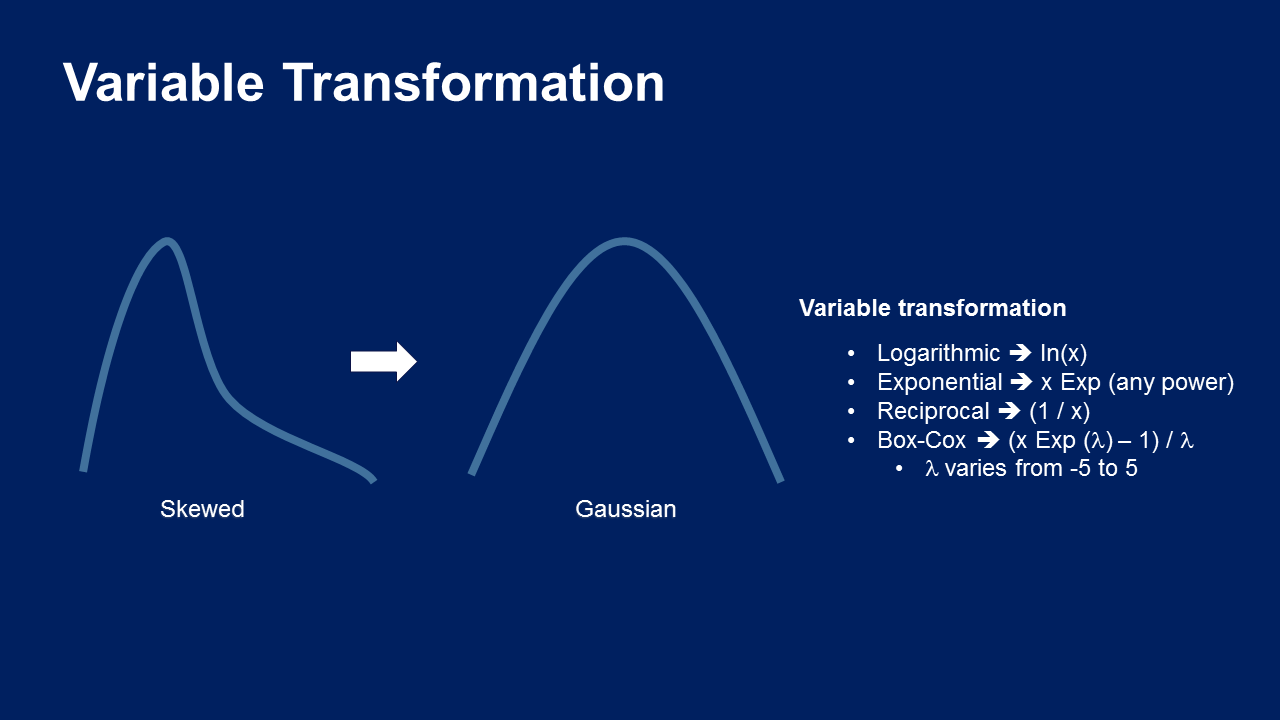
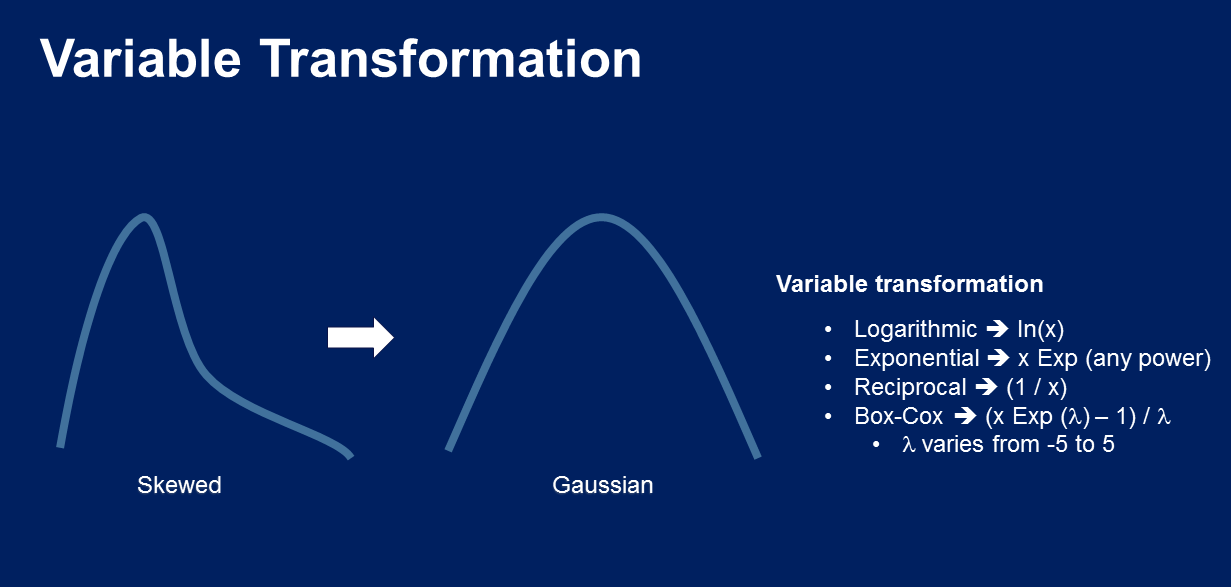
update index

diff --git a/docs/user_guide/transformation/index.rst b/docs/user_guide/transformation/index.rst
@@ -3,28 +3,47 @@
 Variance Stabilising Transformations
 ====================================
 
-Feature-engine's variable transformers transform numerical variables with various
-mathematical transformations.
+Feature-engine's variance stabilising transformers transform numerical variables with various
+mathematical operations, like logarithm, power, reciprocal, and so on.
 
 Variable transformations are commonly used to spread the values of the original variables
-over a wider value range. See the following illustration:
+over a wider value range and help meet the assumptions of several statistical models.
+See the following illustration:
 
 .. figure::  ../../images/Variable_Transformation.png
    :align:   center
 
 
-Article
--------
+.. tip::
 
-We added a lot of information about **variance stabilising transformations** in this
-`article <https://www.blog.trainindata.com/variance-stabilizing-transformations-in-machine-learning/>`_.
+    To learn more about `**variance stabilising transformations** <https://www.blog.trainindata.com/variance-stabilizing-transformations-in-machine-learning/>`_
+    and their role in statistics and  machine learning, check out our very detailed
+    `article <https://www.blog.trainindata.com/variance-stabilizing-transformations-in-machine-learning/>`_ in our
+    Train in Data Blog.
 
-**Note**
+Supported transformations
+-------------------------
 
-Note however, that improving the value spread is not always possible and it depends
-on the nature of the variable.
+================================== ========================= =====================================================
+    Transformer                       Limitations     	  	    Description
+================================== ========================= =====================================================
+:class:`LogTransformer()`	         Not valid for x<=0         Applies natural or decimal logarithm.
+:class:`LogCpTransformer()`	               None	                Applies logarithm after adding a constant value.
+:class:`ReciprocalTransformer()`     Not defined for x=0        Applies the reciprocal transformation: 1/x.
+:class:`ArcsinTransformer()`             None                   Applies the inverse sine function.
+:class:`ArcSinhTransformer()`	     	 None                   Applies the inverse hyperbolic sine function.
+:class:`PowerTransformer()`	        	 None                   Applies any power transformation x = x**n.
+:class:`BoxCoxTransformer()`	     Not defined for x<=0       Applies the Box-Cox transformation.
+:class:`YeoJohnsonTransformer()`         None                   Applies the Yeo-Johnson transformation.
+================================== ========================= =====================================================
 
-**Transformers**
+.. note::
+
+    Improving the value spread is not always possible and it depends on the nature of
+    the variable.
+
+Transformers
+------------
 
 .. toctree::
    :maxdepth: 1